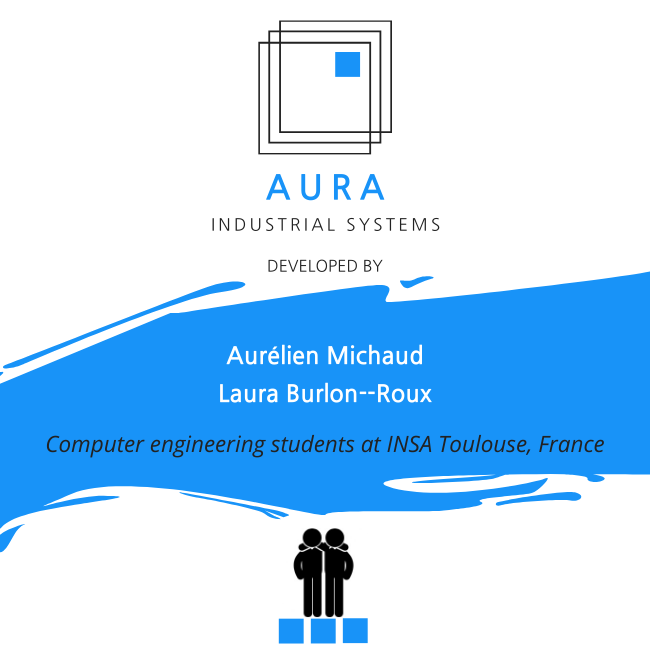
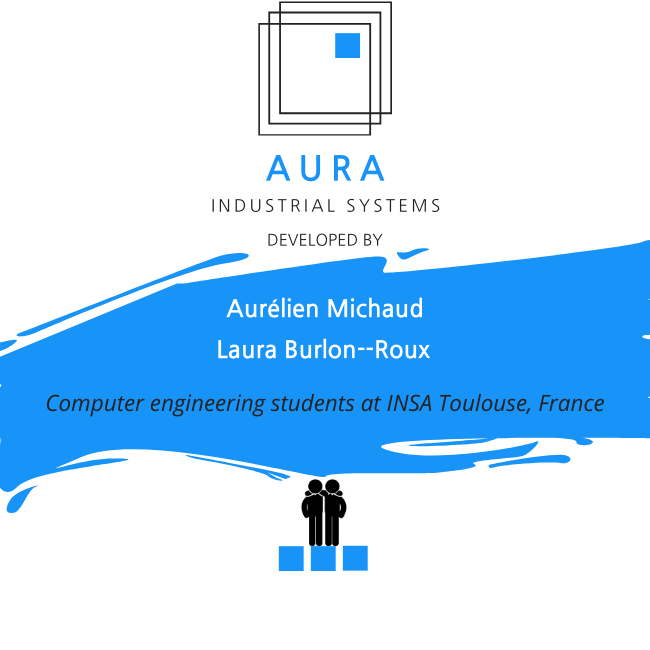
Back Button

diff --git a/chatsystem/gui/MainWindowBeginning.java b/chatsystem/gui/MainWindowBeginning.java
@@ -269,7 +269,7 @@ public class MainWindowBeginning extends JFrame{
 		imageLogo.setAlignmentX(Component.CENTER_ALIGNMENT);
 		boxMsg.add(imageLogo);
 
-		ImageIcon logo2 		= new ImageIcon("../resources/images/AboutUsFinal1.png");
+		ImageIcon logo2 		= new ImageIcon("../resources/images/AboutUsFinal.png");
 		JLabel aboutUsFinal		= new JLabel(logo2); 
 
 		JLabel paddingT1 		= new JLabel(" ");
@@ -285,21 +285,24 @@ public class MainWindowBeginning extends JFrame{
 		
 		JButton backAButton	= new JButton(backA);
 		backAButton.setBorder(BorderFactory.createLineBorder(Color.white));
+
+	
+	
 		
 		JButton buttonAU 	= new JButton(mouseExitedAU);
 		buttonAU.setBorder(BorderFactory.createLineBorder(Color.white));
 		buttonAU.setAlignmentX(Component.CENTER_ALIGNMENT);
+		boxMsg.add(buttonAU, BorderLayout.CENTER);
 		buttonAU.addMouseListener(new MouseListener() {
 			public void mouseClicked(MouseEvent e) {}
 			@Override
      			public void mousePressed(MouseEvent e) {
 				panelMsg.removeAll();
-				backAButton.setAlignmentX(Component.RIGHT_ALIGNMENT);
 				panelMsg.add(backAButton);
-				aboutUsFinal.setAlignmentX(Component.CENTER_ALIGNMENT);
 				panelMsg.add(aboutUsFinal);
 				panelMsg.revalidate();
 				panelMsg.repaint();
+				buttonAU.setIcon(mouseExitedAU);
 			}
 			@Override
         		public void mouseReleased(MouseEvent e) {
@@ -317,12 +320,31 @@ public class MainWindowBeginning extends JFrame{
 				
 			}
 		});
+		
+		//Texte
+		JLabel paddingT2 		= new JLabel(" ");
+		paddingT2.setFont(new java.awt.Font("CALIBRI",Font.BOLD,17));
+		JLabel sendTextMsg 		= new JLabel("Please, select a user to start a chat session.");
+		sendTextMsg.setFont(new java.awt.Font("CALIBRI",Font.PLAIN,15));
+		sendTextMsg.setForeground(Color.gray);
+		sendTextMsg.setAlignmentX(Component.CENTER_ALIGNMENT);
+		boxMsg.add(paddingT2, BorderLayout.CENTER);
+		boxMsg.add(sendTextMsg, BorderLayout.CENTER);
 
 		backAButton.addMouseListener(new MouseListener() {
 			public void mouseClicked(MouseEvent e) {}
 			@Override
      			public void mousePressed(MouseEvent e) {
-				
+				panelMsg.removeAll();
+				panelMsg.add(boxMsg);
+				boxMsg.add(imageLogo);
+				boxMsg.add(paddingT1);
+				boxMsg.add(buttonAU, BorderLayout.CENTER);
+				boxMsg.add(paddingT2, BorderLayout.CENTER);
+				boxMsg.add(sendTextMsg, BorderLayout.CENTER);
+				panelMsg.revalidate();
+				panelMsg.repaint();
+				backAButton.setIcon(backA);
 			}
 			@Override
         		public void mouseReleased(MouseEvent e) {
@@ -342,17 +364,8 @@ public class MainWindowBeginning extends JFrame{
 		});
 
 
-		boxMsg.add(buttonAU, BorderLayout.CENTER);
+		
 
-		//Texte
-		JLabel paddingT2 		= new JLabel(" ");
-		paddingT2.setFont(new java.awt.Font("CALIBRI",Font.BOLD,17));
-		JLabel sendTextMsg 		= new JLabel("Please, select a user to start a chat session.");
-		sendTextMsg.setFont(new java.awt.Font("CALIBRI",Font.PLAIN,15));
-		sendTextMsg.setForeground(Color.gray);
-		sendTextMsg.setAlignmentX(Component.CENTER_ALIGNMENT);
-		boxMsg.add(paddingT2, BorderLayout.CENTER);
-		boxMsg.add(sendTextMsg, BorderLayout.CENTER);
 	
 
 		/************************************END OF MESSAGES PART*************************************************/
